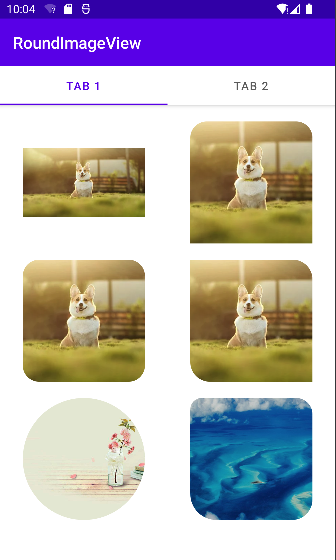
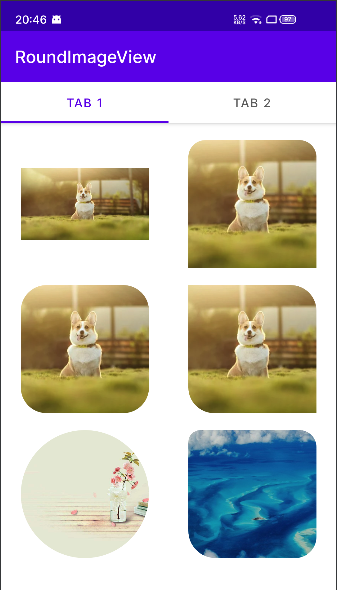
optimize demo, fix bug

diff --git a/library/src/main/java/com/william/widget/RoundImageView.kt b/library/src/main/java/com/william/widget/RoundImageView.kt
@@ -146,7 +146,11 @@ class RoundImageView @JvmOverloads constructor(
                 borderPath.addRoundRect(borderRectF, radii, Path.Direction.CW)
 
                 if (halfBorderWidth > 0) {
-                    radii.forEachIndexed { index, f -> radii[index] = f + halfBorderWidth }
+                    radii.forEachIndexed { index, f ->
+                        if (f > 0) {
+                            radii[index] = f + halfBorderWidth
+                        }
+                    }
                 }
                 rectF.set(
                     paddingLeft.toFloat(),
